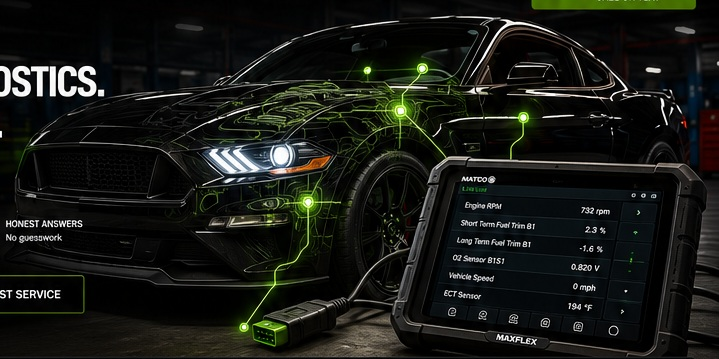
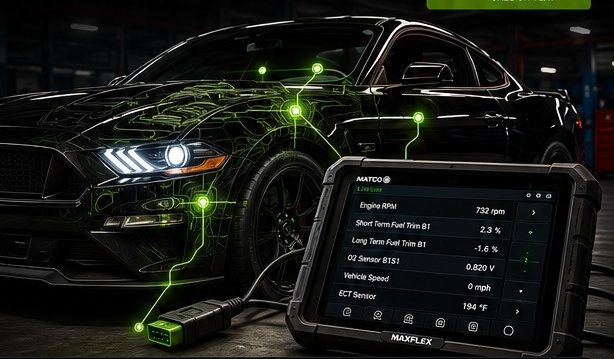
Add files via upload

diff --git a/index.html b/index.html
@@ -941,9 +941,106 @@
 
     .mobile-call{display:none}
 
+
+    /* Version 3.1 spacing and artwork fixes */
+    .nav{
+      padding-inline:8px;
+    }
+
+    .nav-links{
+      gap:18px;
+      white-space:nowrap;
+    }
+
+    .hero-grid{
+      grid-template-columns:minmax(0,.88fr) minmax(460px,1.12fr);
+      gap:54px;
+    }
+
+    .hero-copy{
+      min-width:0;
+    }
+
+    .hero-benefits{
+      display:grid;
+      grid-template-columns:repeat(2,minmax(0,1fr));
+      max-width:610px;
+      gap:18px 24px;
+    }
+
+    .hero-benefits div{
+      grid-template-columns:42px minmax(0,1fr);
+      min-width:0;
+    }
+
+    .hero-benefits b,
+    .hero-benefits span{
+      line-height:1.25;
+    }
+
+    .hero-visual{
+      transform:none;
+      padding-left:10px;
+    }
+
+    .hero-visual img{
+      width:100%;
+      border-radius:18px;
+      object-fit:cover;
+      object-position:center;
+    }
+
+    .scanner-photo img{
+      object-fit:contain;
+      padding:28px;
+      background:
+        radial-gradient(circle at 60% 45%,rgba(132,223,24,.10),transparent 34%),
+        #070a08;
+    }
+
+    @media(max-width:1180px){
+      .nav-links{
+        gap:13px;
+      }
+
+      .nav-links a{
+        font-size:.80rem;
+      }
+
+      .hero-grid{
+        grid-template-columns:1fr;
+        gap:36px;
+        padding-top:68px;
+      }
+
+      .hero-copy{
+        max-width:850px;
+      }
+
+      .hero-visual{
+        max-width:900px;
+        margin-inline:auto;
+        padding-left:0;
+      }
+
+      .hero-benefits{
+        max-width:720px;
+      }
+    }
+
+    @media(max-width:840px){
+      .nav-links a:not(.nav-call){
+        display:none;
+      }
+
+      .hero-benefits{
+        grid-template-columns:1fr;
+      }
+    }
+
     @media(max-width:1050px){
       .nav-links a:not(.nav-call){display:none}
-      .hero-grid,.difference-grid,.area-grid,.request-grid,.review-grid{grid-template-columns:1fr}
+      .difference-grid,.area-grid,.request-grid,.review-grid{grid-template-columns:1fr}
       .hero-visual{max-width:850px;transform:none}
       .trust-panel{grid-template-columns:1fr 1fr}
       .ase-main{grid-column:span 2}
@@ -1311,8 +1408,8 @@
   <script>
     const aseLogo = document.getElementById("aseLogo");
     const officialASE = new Image();
-    officialASE.onload = () => aseLogo.src = "assets/ase-logo.png";
-    officialASE.src = "assets/ase-logo.png";
+    officialASE.onload = () => aseLogo.src = "assets/ase-logo.webp";
+    officialASE.src = "assets/ase-logo.webp";
 
     const revealItems = document.querySelectorAll(".reveal");
     const observer = new IntersectionObserver(entries => {
